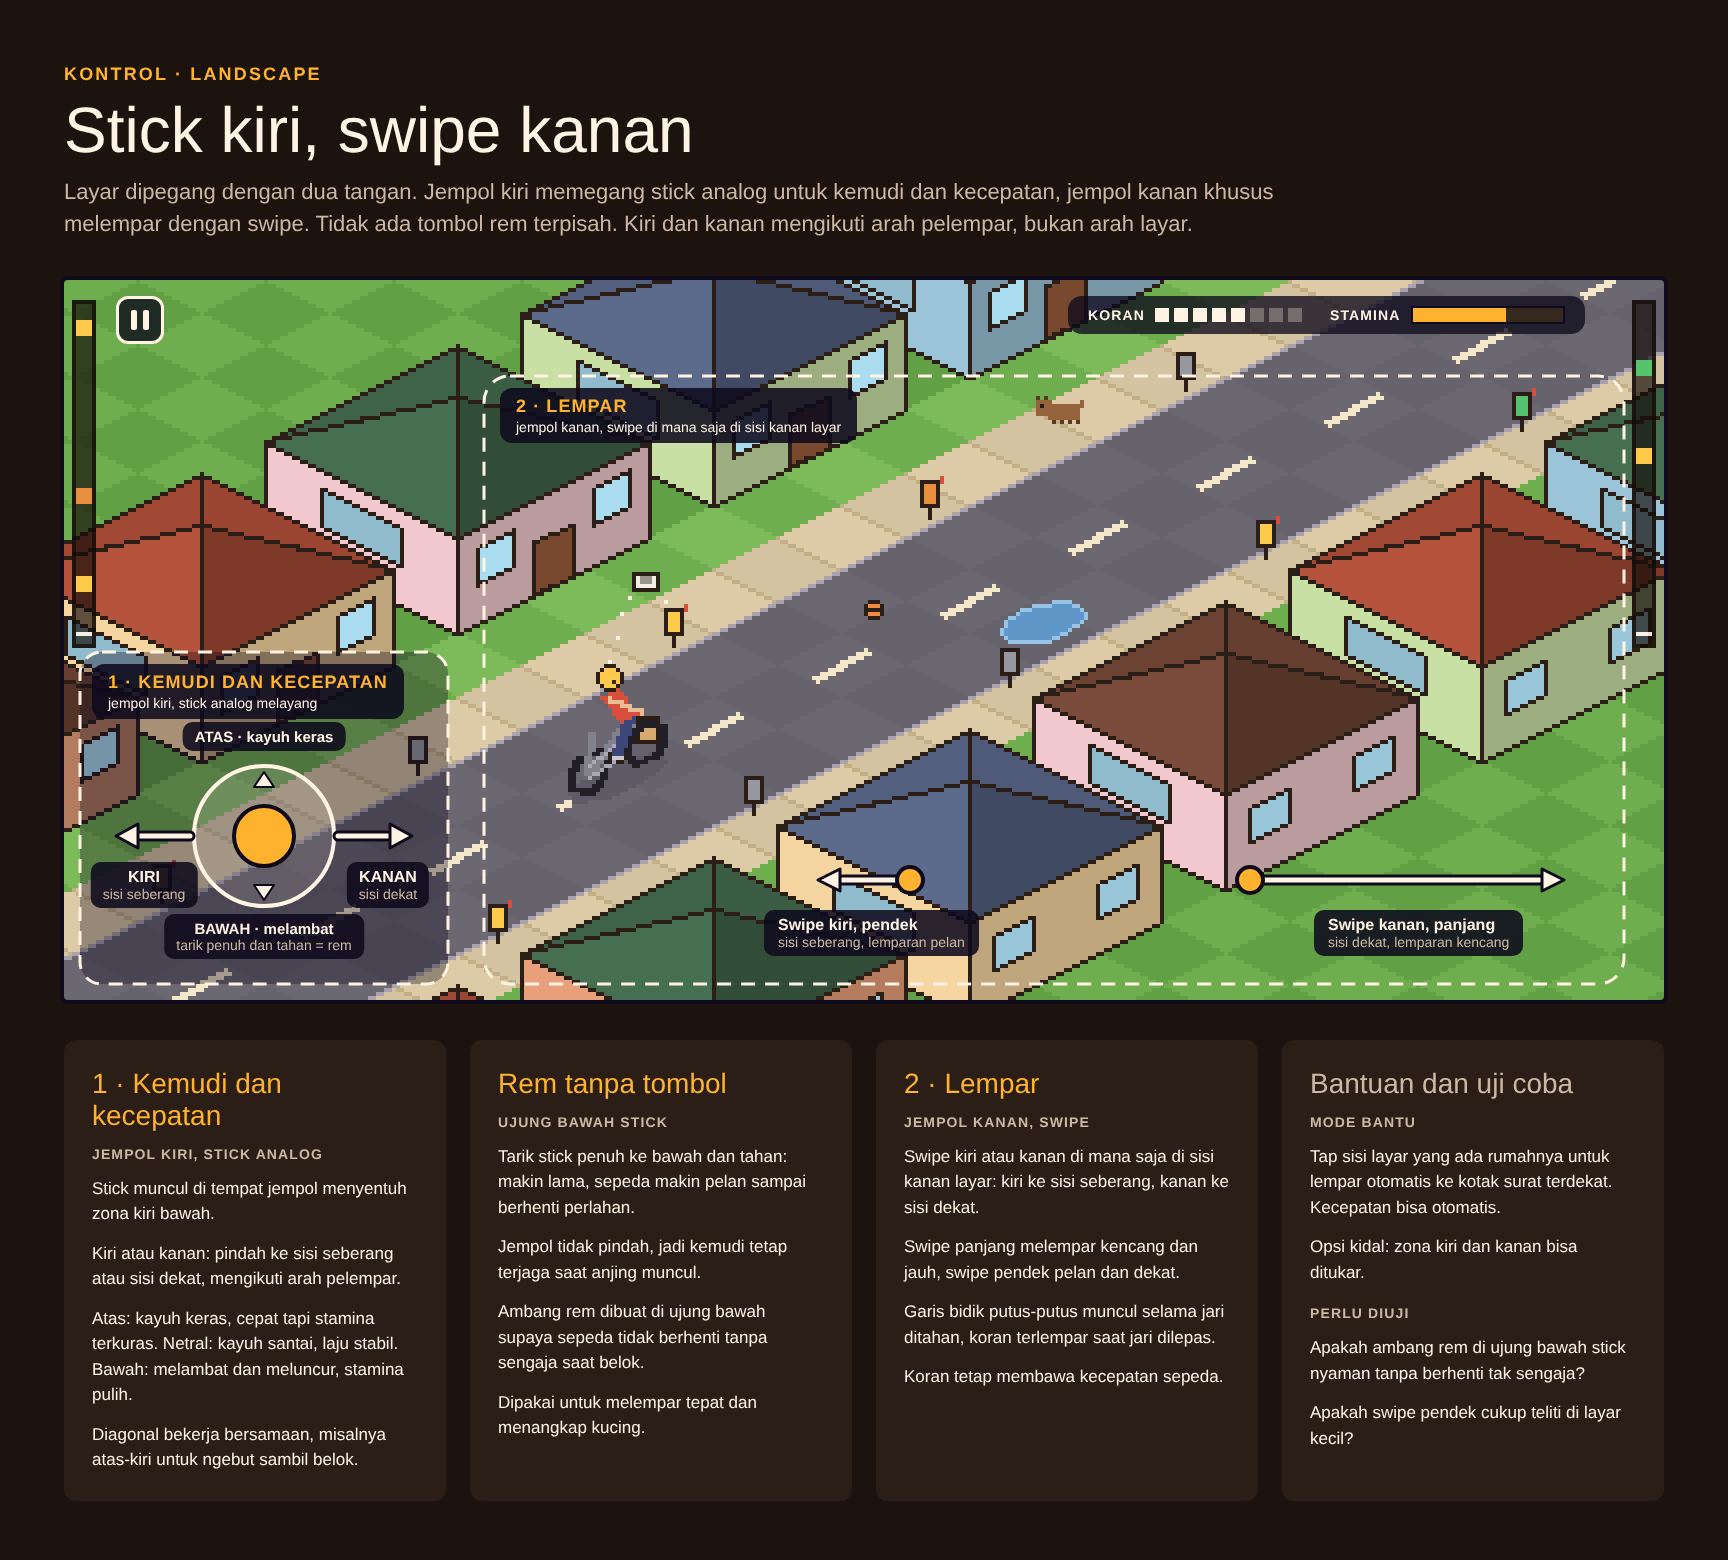
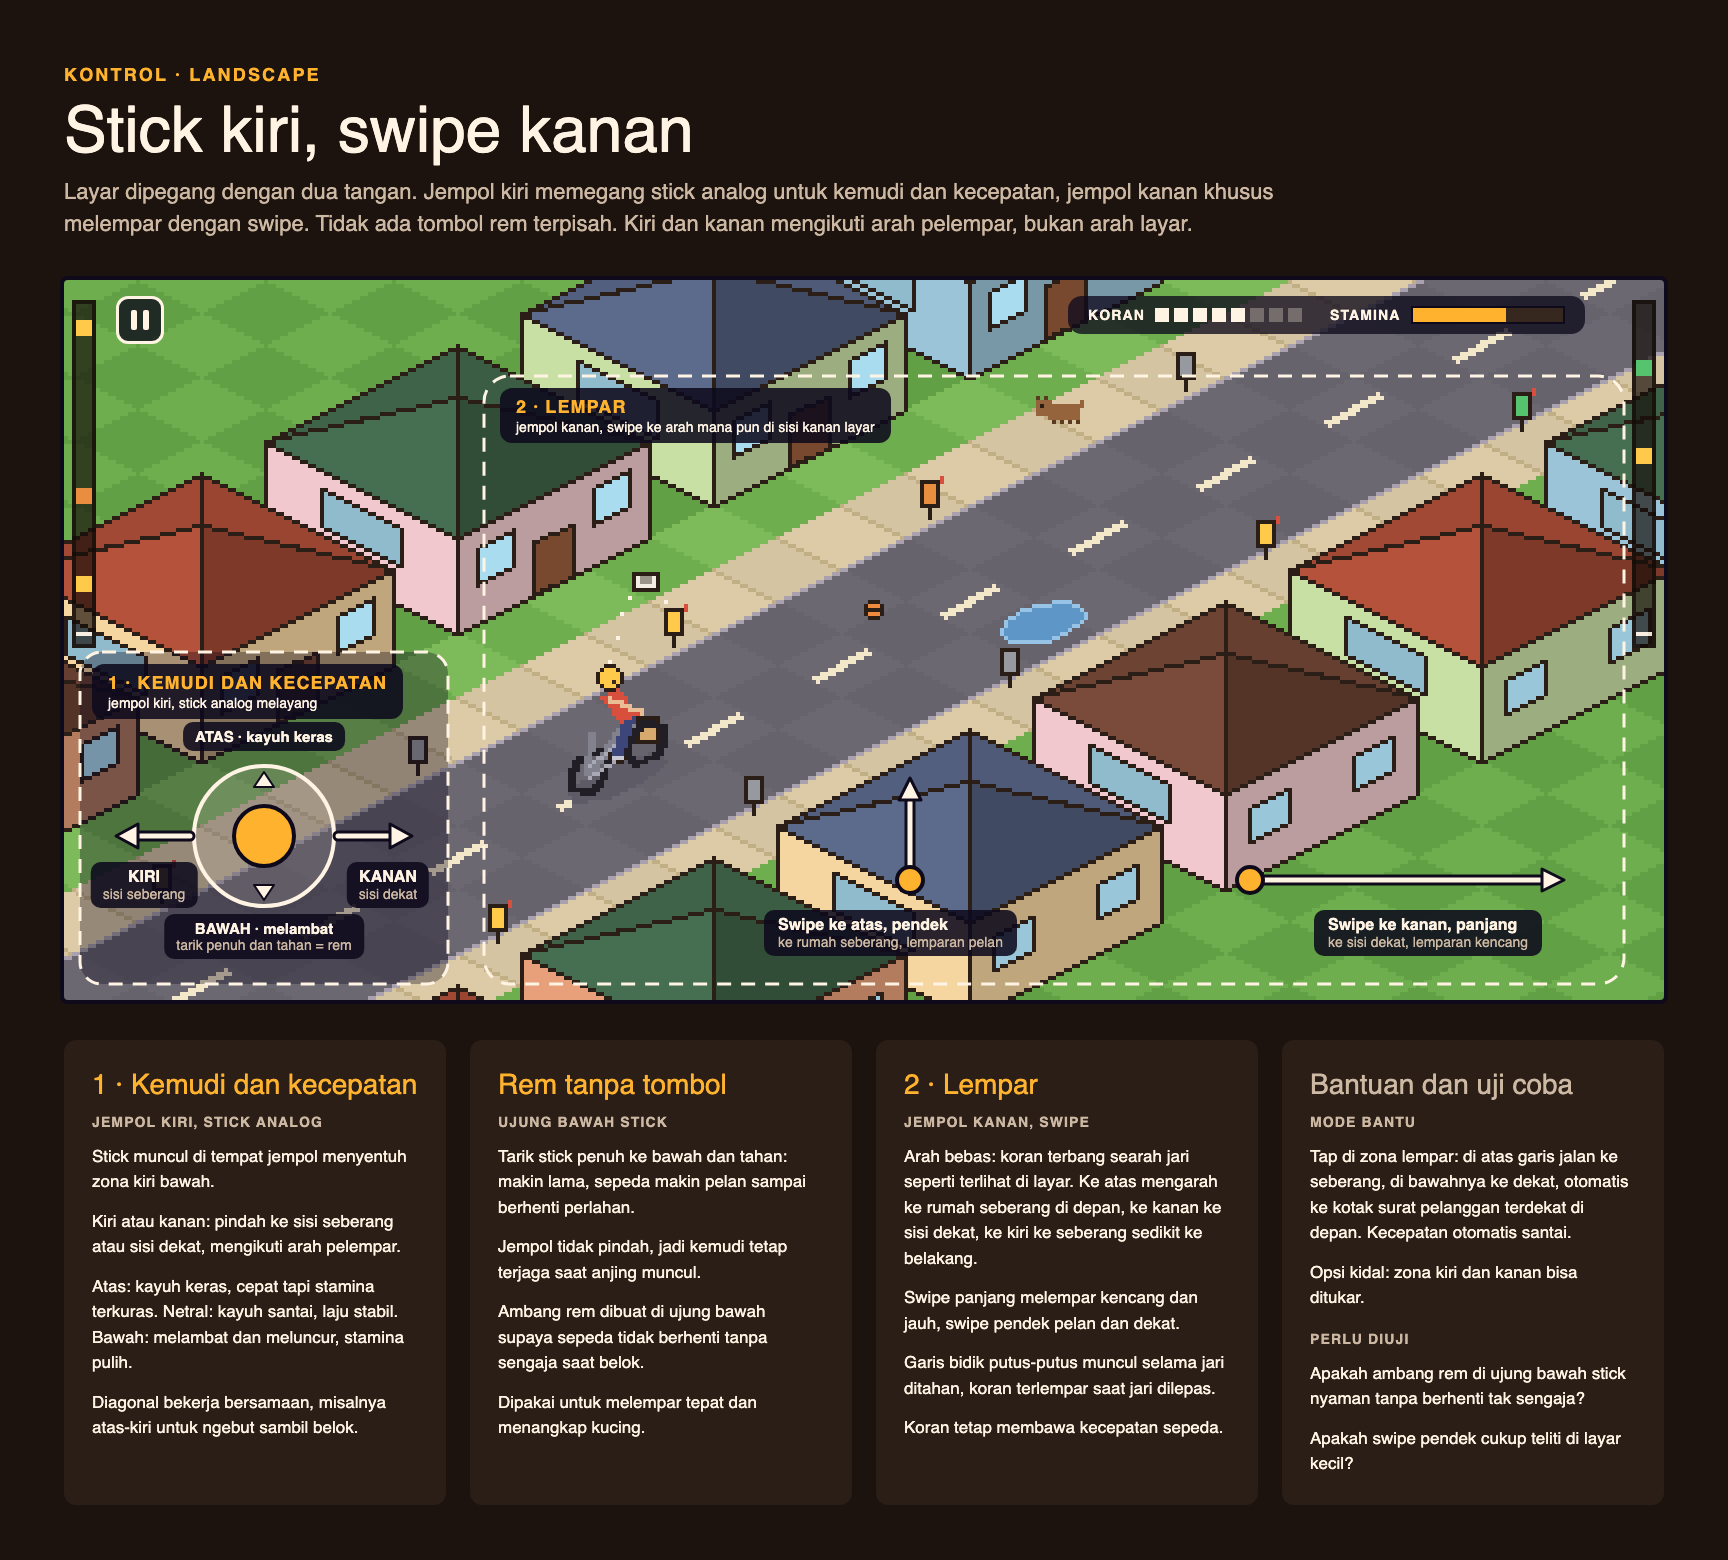
docs: papan kontrol ke arah lempar bebas (QA-005, QA-006)
Mock kontrol.html dan render PNG-nya masih mengajarkan "swipe kiri =
seberang, kanan = dekat", padahal arah bebas (GDD 5.2) sudah berlaku.
HTML diperbarui (swipe ke atas ke seberang, ke kanan ke dekat, catatan
mode bantu) dan kedua PNG dirender ulang dengan Chrome headless di ukuran
lama (1728x1560, potongan 1600x721); perintahnya di DESIGN_SPEC 0.
Render memblokir jaringan karena PNG lama dibuat dengan font cadangan,
jadi tampilannya setara (render HTML lama beda sekitar 1% piksel).

GDD 4.2: "jatuh di" diganti "mengarah ke" karena titik mendarat juga
bergantung pada lateral, panjang swipe, dan warisan maju (QA-006).

Claude-Session: https://claude.ai/code/session_01L7bTjX65YBWuYBKkXkoJgv

diff --git a/docs/design/source/kontrol.html b/docs/design/source/kontrol.html
@@ -39,9 +39,9 @@ body{margin:0}
 
 <rect x="420" y="96" width="1140" height="608" rx="26" fill="none" stroke="#FFF3E3" stroke-width="3" stroke-dasharray="14 10"/>
 
-<line x1="836" y1="600" x2="778" y2="600" stroke="#0E0A1C" stroke-width="11" stroke-linecap="round"/>
-<line x1="836" y1="600" x2="778" y2="600" stroke="#FFF3E3" stroke-width="5" stroke-linecap="round"/>
-<polygon points="754,600 776,589 776,611" fill="#FFF3E3" stroke="#0E0A1C" stroke-width="3" stroke-linejoin="round"/>
+<line x1="846" y1="590" x2="846" y2="522" stroke="#0E0A1C" stroke-width="11" stroke-linecap="round"/>
+<line x1="846" y1="590" x2="846" y2="522" stroke="#FFF3E3" stroke-width="5" stroke-linecap="round"/>
+<polygon points="846,498 835,520 857,520" fill="#FFF3E3" stroke="#0E0A1C" stroke-width="3" stroke-linejoin="round"/>
 <circle cx="846" cy="600" r="13" fill="#FFB22E" stroke="#0E0A1C" stroke-width="4"/>
 
 <line x1="1196" y1="600" x2="1476" y2="600" stroke="#0E0A1C" stroke-width="11" stroke-linecap="round"/>
@@ -70,15 +70,15 @@ body{margin:0}
 
 <div style="position: absolute; left: 436px; top: 108px; background: rgba(14,10,28,0.88); border-radius: 12px; padding: 8px 16px; display: flex; flex-direction: column; gap: 2px">
 <div style="font-size: 18px; font-weight: 600; letter-spacing: 0.06em; color: #FFB22E">2 · LEMPAR</div>
-<div style="font-size: 14px; color: #FFF3E3">jempol kanan, swipe di mana saja di sisi kanan layar</div>
+<div style="font-size: 14px; color: #FFF3E3">jempol kanan, swipe ke arah mana pun di sisi kanan layar</div>
 </div>
 <div style="position: absolute; left: 700px; top: 630px; background: rgba(14,10,28,0.88); border-radius: 10px; padding: 6px 14px; white-space: nowrap">
-<div style="font-size: 16px; font-weight: 600">Swipe kiri, pendek</div>
-<div style="font-size: 14px; color: #CDB9A3">sisi seberang, lemparan pelan</div>
+<div style="font-size: 16px; font-weight: 600">Swipe ke atas, pendek</div>
+<div style="font-size: 14px; color: #CDB9A3">ke rumah seberang, lemparan pelan</div>
 </div>
 <div style="position: absolute; left: 1250px; top: 630px; background: rgba(14,10,28,0.88); border-radius: 10px; padding: 6px 14px; white-space: nowrap">
-<div style="font-size: 16px; font-weight: 600">Swipe kanan, panjang</div>
-<div style="font-size: 14px; color: #CDB9A3">sisi dekat, lemparan kencang</div>
+<div style="font-size: 16px; font-weight: 600">Swipe ke kanan, panjang</div>
+<div style="font-size: 14px; color: #CDB9A3">ke sisi dekat, lemparan kencang</div>
 </div>
 
 <button type="button" aria-label="Jeda" style="position: absolute; left: 52px; top: 16px; width: 48px; height: 48px; padding: 0; border: 3px solid #FFF3E3; border-radius: 12px; background: rgba(14,10,28,0.78); display: flex; align-items: center; justify-content: center; gap: 6px; cursor: default">
@@ -126,7 +126,7 @@ body{margin:0}
 <div style="flex: 1 1 0; min-width: 0; display: flex; flex-direction: column; gap: 14px; background: #2A1E17; border-radius: 12px; padding: 28px">
 <div style="font-family: 'Lilita One', sans-serif; font-size: 28px; color: #FFB22E">2 · Lempar</div>
 <div style="font-size: 14px; font-weight: 600; letter-spacing: 0.08em; color: #CDB9A3">JEMPOL KANAN, SWIPE</div>
-<div style="font-size: 17px; line-height: 1.5">Swipe kiri atau kanan di mana saja di sisi kanan layar: kiri ke sisi seberang, kanan ke sisi dekat.</div>
+<div style="font-size: 17px; line-height: 1.5">Arah bebas: koran terbang searah jari seperti terlihat di layar. Ke atas mengarah ke rumah seberang di depan, ke kanan ke sisi dekat, ke kiri ke seberang sedikit ke belakang.</div>
 <div style="font-size: 17px; line-height: 1.5">Swipe panjang melempar kencang dan jauh, swipe pendek pelan dan dekat.</div>
 <div style="font-size: 17px; line-height: 1.5">Garis bidik putus-putus muncul selama jari ditahan, koran terlempar saat jari dilepas.</div>
 <div style="font-size: 17px; line-height: 1.5">Koran tetap membawa kecepatan sepeda.</div>
@@ -134,7 +134,7 @@ body{margin:0}
 <div style="flex: 1 1 0; min-width: 0; display: flex; flex-direction: column; gap: 14px; background: #2A1E17; border-radius: 12px; padding: 28px">
 <div style="font-family: 'Lilita One', sans-serif; font-size: 28px; color: #CDB9A3">Bantuan dan uji coba</div>
 <div style="font-size: 14px; font-weight: 600; letter-spacing: 0.08em; color: #CDB9A3">MODE BANTU</div>
-<div style="font-size: 17px; line-height: 1.5">Tap sisi layar yang ada rumahnya untuk lempar otomatis ke kotak surat terdekat. Kecepatan bisa otomatis.</div>
+<div style="font-size: 17px; line-height: 1.5">Tap di zona lempar: di atas garis jalan ke seberang, di bawahnya ke dekat, otomatis ke kotak surat pelanggan terdekat di depan. Kecepatan otomatis santai.</div>
 <div style="font-size: 17px; line-height: 1.5">Opsi kidal: zona kiri dan kanan bisa ditukar.</div>
 <div style="font-size: 14px; font-weight: 600; letter-spacing: 0.08em; color: #CDB9A3; margin-top: 6px">PERLU DIUJI</div>
 <div style="font-size: 17px; line-height: 1.5">Apakah ambang rem di ujung bawah stick nyaman tanpa berhenti tak sengaja?</div>

diff --git a/docs/design/DESIGN_SPEC.md b/docs/design/DESIGN_SPEC.md
@@ -22,6 +22,18 @@ Spesifikasi visual untuk mengimplementasikan HUD dan layar game di Godot. Pasang
 - **Angka gameplay** (koin, jumlah pelanggan, hadiah). Ambil dari `scripts/config.gd` (`BALANCING.md`). Lihat bagian 6.
 - **Teks contoh** ("Cari kucing Mimi", "dari berita hal. 2"). Teks mengikuti `CONTENT_GUIDE.md`.
 
+**Merender ulang papan kontrol** (run fase2b-bantu-audio 2026-10-15, QA-005: `source/kontrol.html` diperbarui ke arah lempar bebas dan mode bantu). PNG dibuat dari HTML dengan Chrome headless dan dipotong dengan Pillow, tanpa diedit tangan. Render lama dibuat tanpa web font (font cadangan sans), jadi render ulang juga memblokir jaringan supaya Lexend/Lilita tidak termuat dan tampilannya setara (render HTML lama dengan perintah ini berbeda di sekitar 1% piksel area gambar dari `kontrol.png` lama (11.702 dari 1.153.600 piksel dengan selisih kanal > 16), hanya antialias teks):
+
+```bash
+"/Applications/Google Chrome.app/Contents/MacOS/Google Chrome" --headless --disable-gpu --hide-scrollbars \
+  --force-device-scale-factor=1 --host-resolver-rules="MAP * ~NOTFOUND" --window-size=1728,1560 \
+  --virtual-time-budget=8000 --user-data-dir=build/chrome --screenshot=build/kontrol-board.png \
+  "file://$PWD/docs/design/source/kontrol.html"
+python3 -c "from PIL import Image; p=Image.open('build/kontrol-board.png').convert('RGB'); p.save('docs/design/screens/kontrol-board.png', optimize=True); p.crop((64, 279, 1664, 1000)).save('docs/design/screens/kontrol.png', optimize=True)"
+```
+
+`kontrol.png` (1600×721) adalah potongan papan 1728×1560 di (64, 279), sama dengan berkas lama; potongan itu bergeser bila tinggi judul papan berubah. `hud-rute.html` belum dirender ulang.
+
 ---
 
 ## 1. Token
@@ -138,7 +150,7 @@ Kotak berkurang saat aus atau kena kejadian di rute (GDD 12). Tanda "!" berarti 
 
 GDD 4.3. Strip tipis di tepi kiri dan kanan, di separuh atas layar supaya tidak tertutup jempol.
 
-- **Strip kiri = sisi seberang, strip kanan = sisi dekat**, sama dengan arah stick dan swipe.
+- **Strip kiri = sisi seberang, strip kanan = sisi dekat**, sama dengan arah stick; lemparan bebas ke kiri atau ke atas juga mengarah ke seberang (GDD 5.2).
 - Ukuran: lebar 12 (garis luar 1 px, isi 8 px `RADAR_BG`), dari y 10 sampai y 182. Kiri di x 4, kanan 4 px dari tepi kanan.
 - **Atas strip = jauh di depan, bawah = dekat sepeda.** Penanda bergerak turun saat rumah mendekat.
 - Penanda: 8×6 px dengan garis luar. Pelanggan biasa kotak kuning, tip kotak hijau dengan titik terang di tengah, misi bentuk belah ketupat oranye. Rumah bukan pelanggan (abu-abu) hanya tampil di mode bantu.

diff --git a/docs/GDD.md b/docs/GDD.md
@@ -78,7 +78,7 @@ Inti Paperboy tetap dipertahankan: sepeda terus berjalan sementara pemain mengan
 
 Pelanggan ada di kiri dan kanan jalan, dan posisi jalur menentukan seberapa mudah melempar ke tiap sisi.
 
-- Arah swipe di layar menentukan arah lemparan (arah bebas, bagian 5.2), dan sisi lemparan diturunkan dari arah itu. Garis pemisah sisi searah jalan di layar, jadi swipe ke kiri atau ke atas jatuh di sisi seberang, dan swipe ke kanan atau ke bawah di sisi dekat.
+- Arah swipe di layar menentukan arah lemparan (arah bebas, bagian 5.2), dan sisi lemparan diturunkan dari arah itu. Garis pemisah sisi searah jalan di layar, jadi swipe ke kiri atau ke atas mengarah ke sisi seberang, dan swipe ke kanan atau ke bawah mengarah ke sisi dekat. Titik mendaratnya tetap bergantung pada posisi lateral sepeda, panjang swipe, dan warisan kecepatan maju.
 - Posisi jalur jadi strategi: di tengah bisa menjangkau dua sisi tapi lemparan lebih jauh, sedangkan merapat ke satu sisi membuat lemparan ke sana lebih dekat tapi sisi seberang sulit dijangkau.
 - Dua sisi bisa berbeda isi, misalnya kiri pelanggan dan kanan bukan pelanggan, atau kiri rumah dan kanan toko. Rintangan juga datang dari dua arah.
 - Antaran bergantian kiri-kanan secara berurutan bisa memberi bonus combo zigzag.
